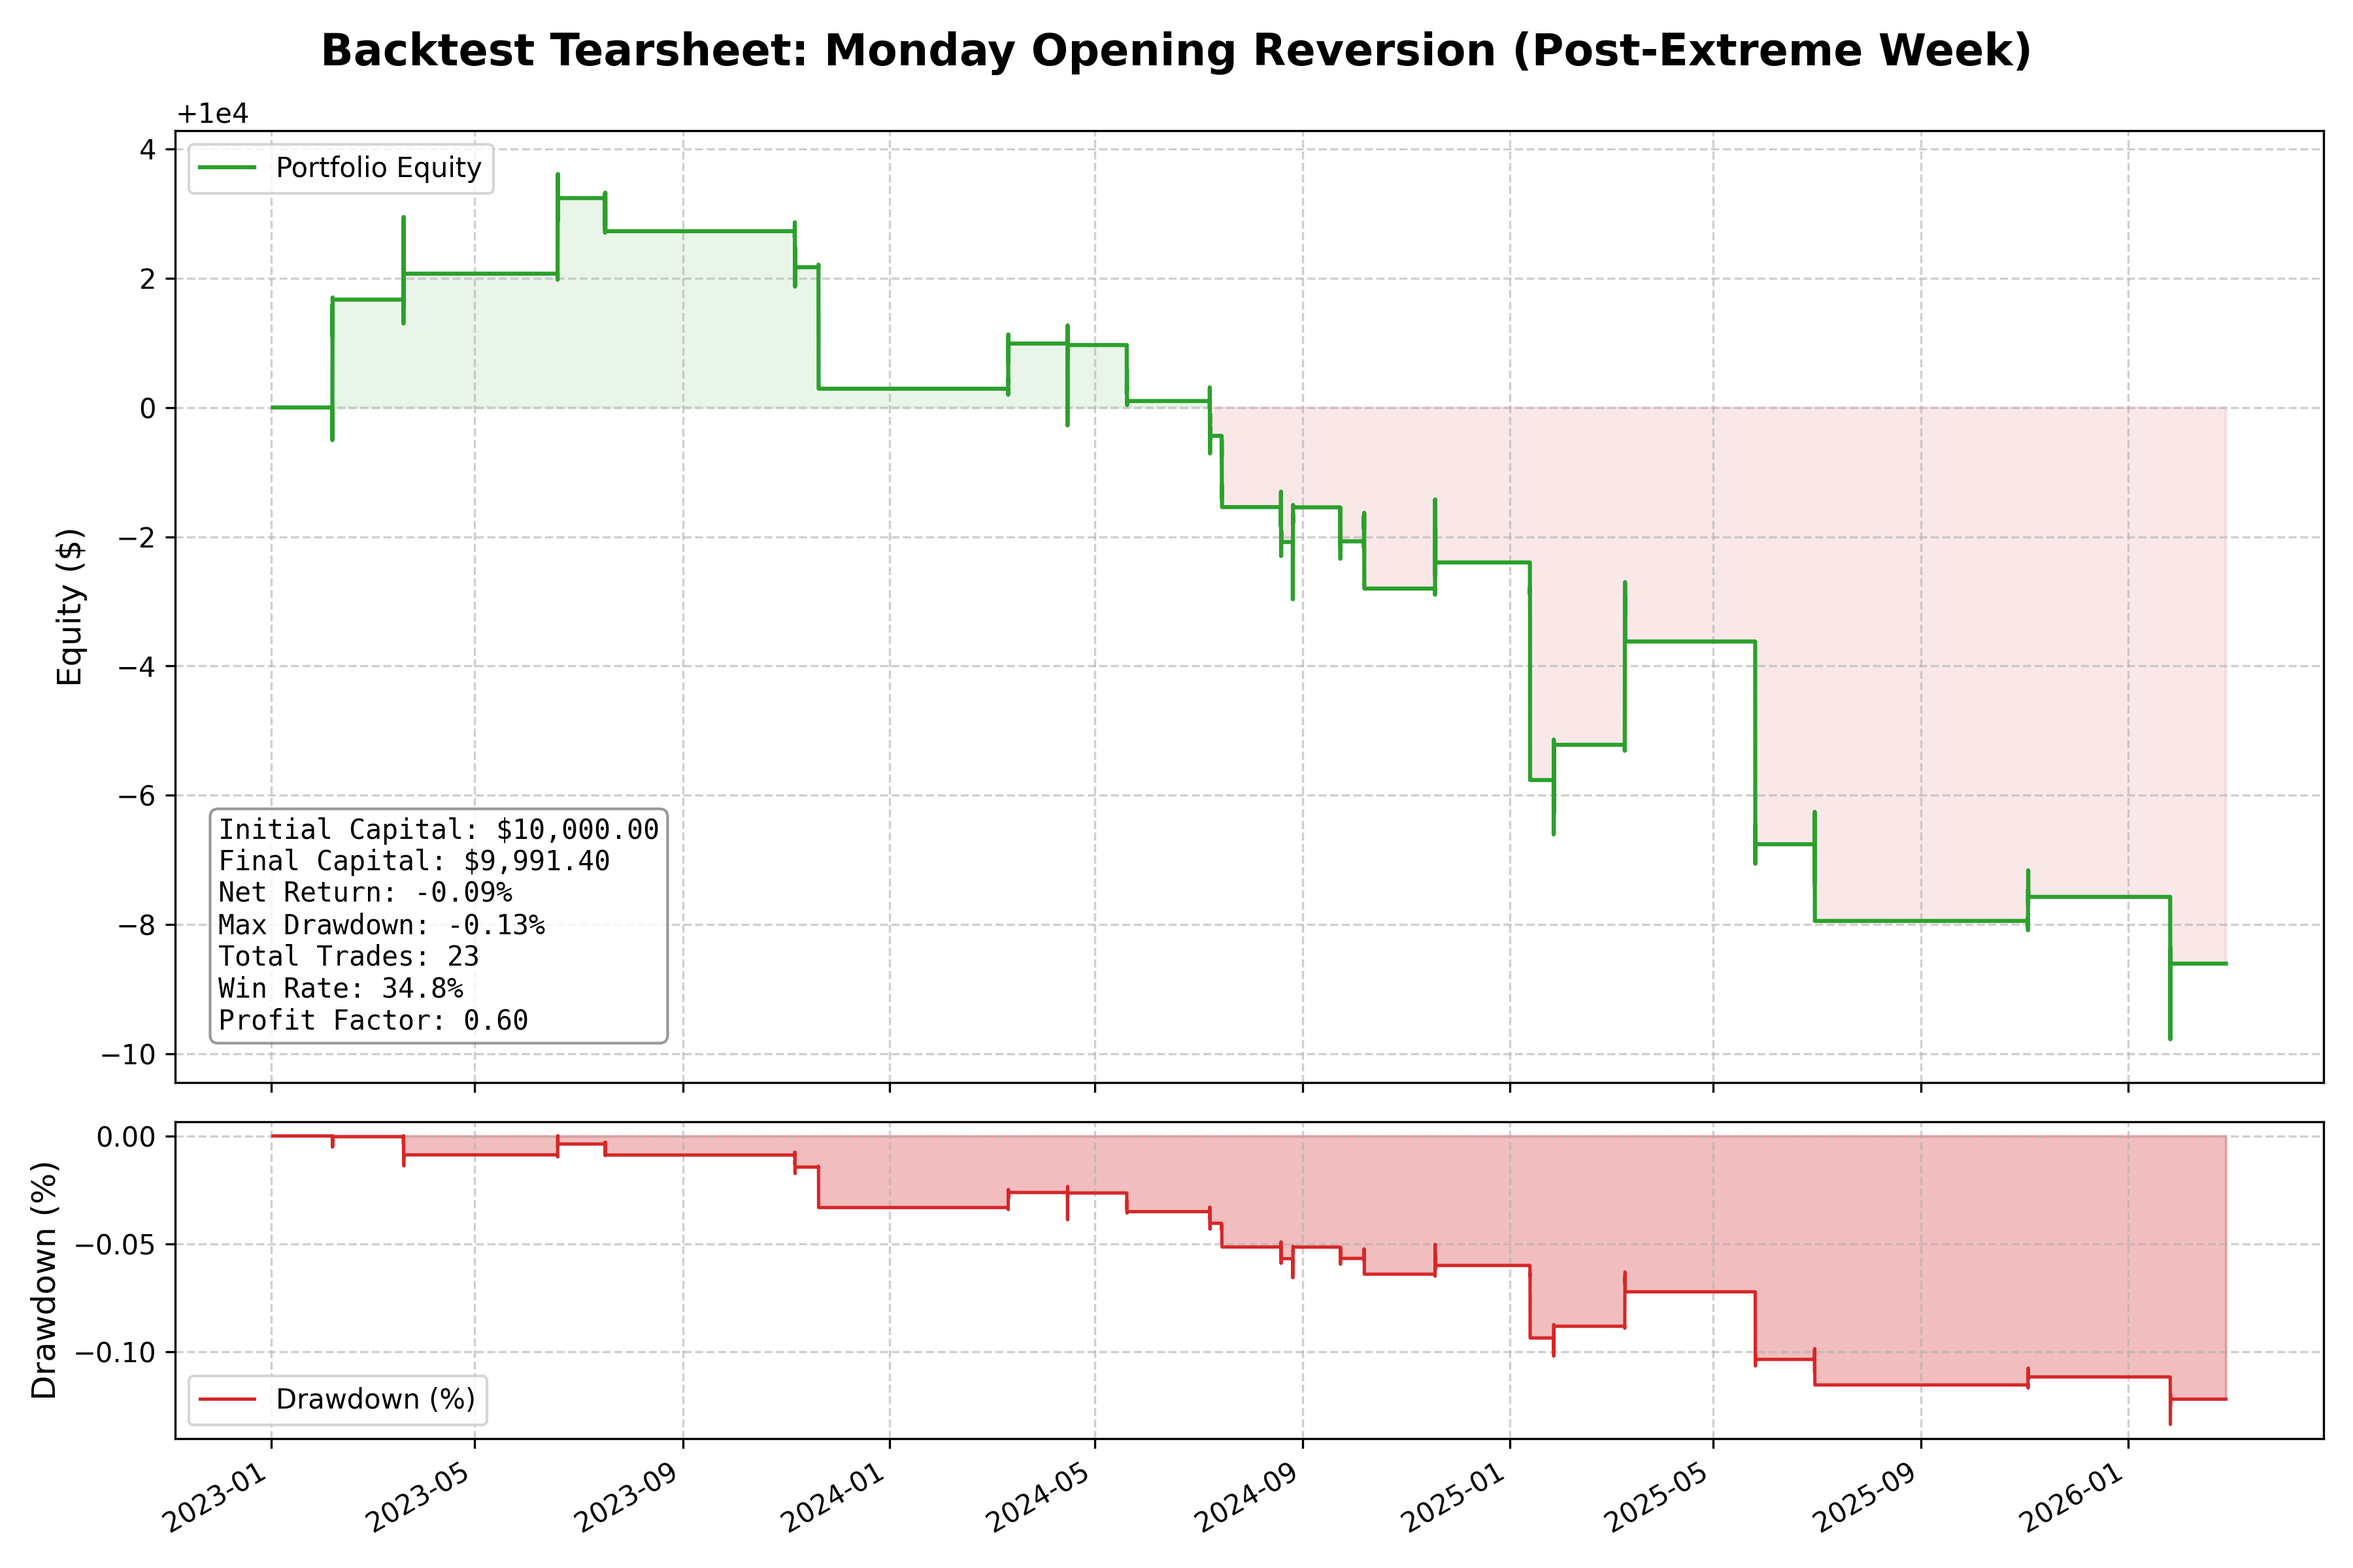
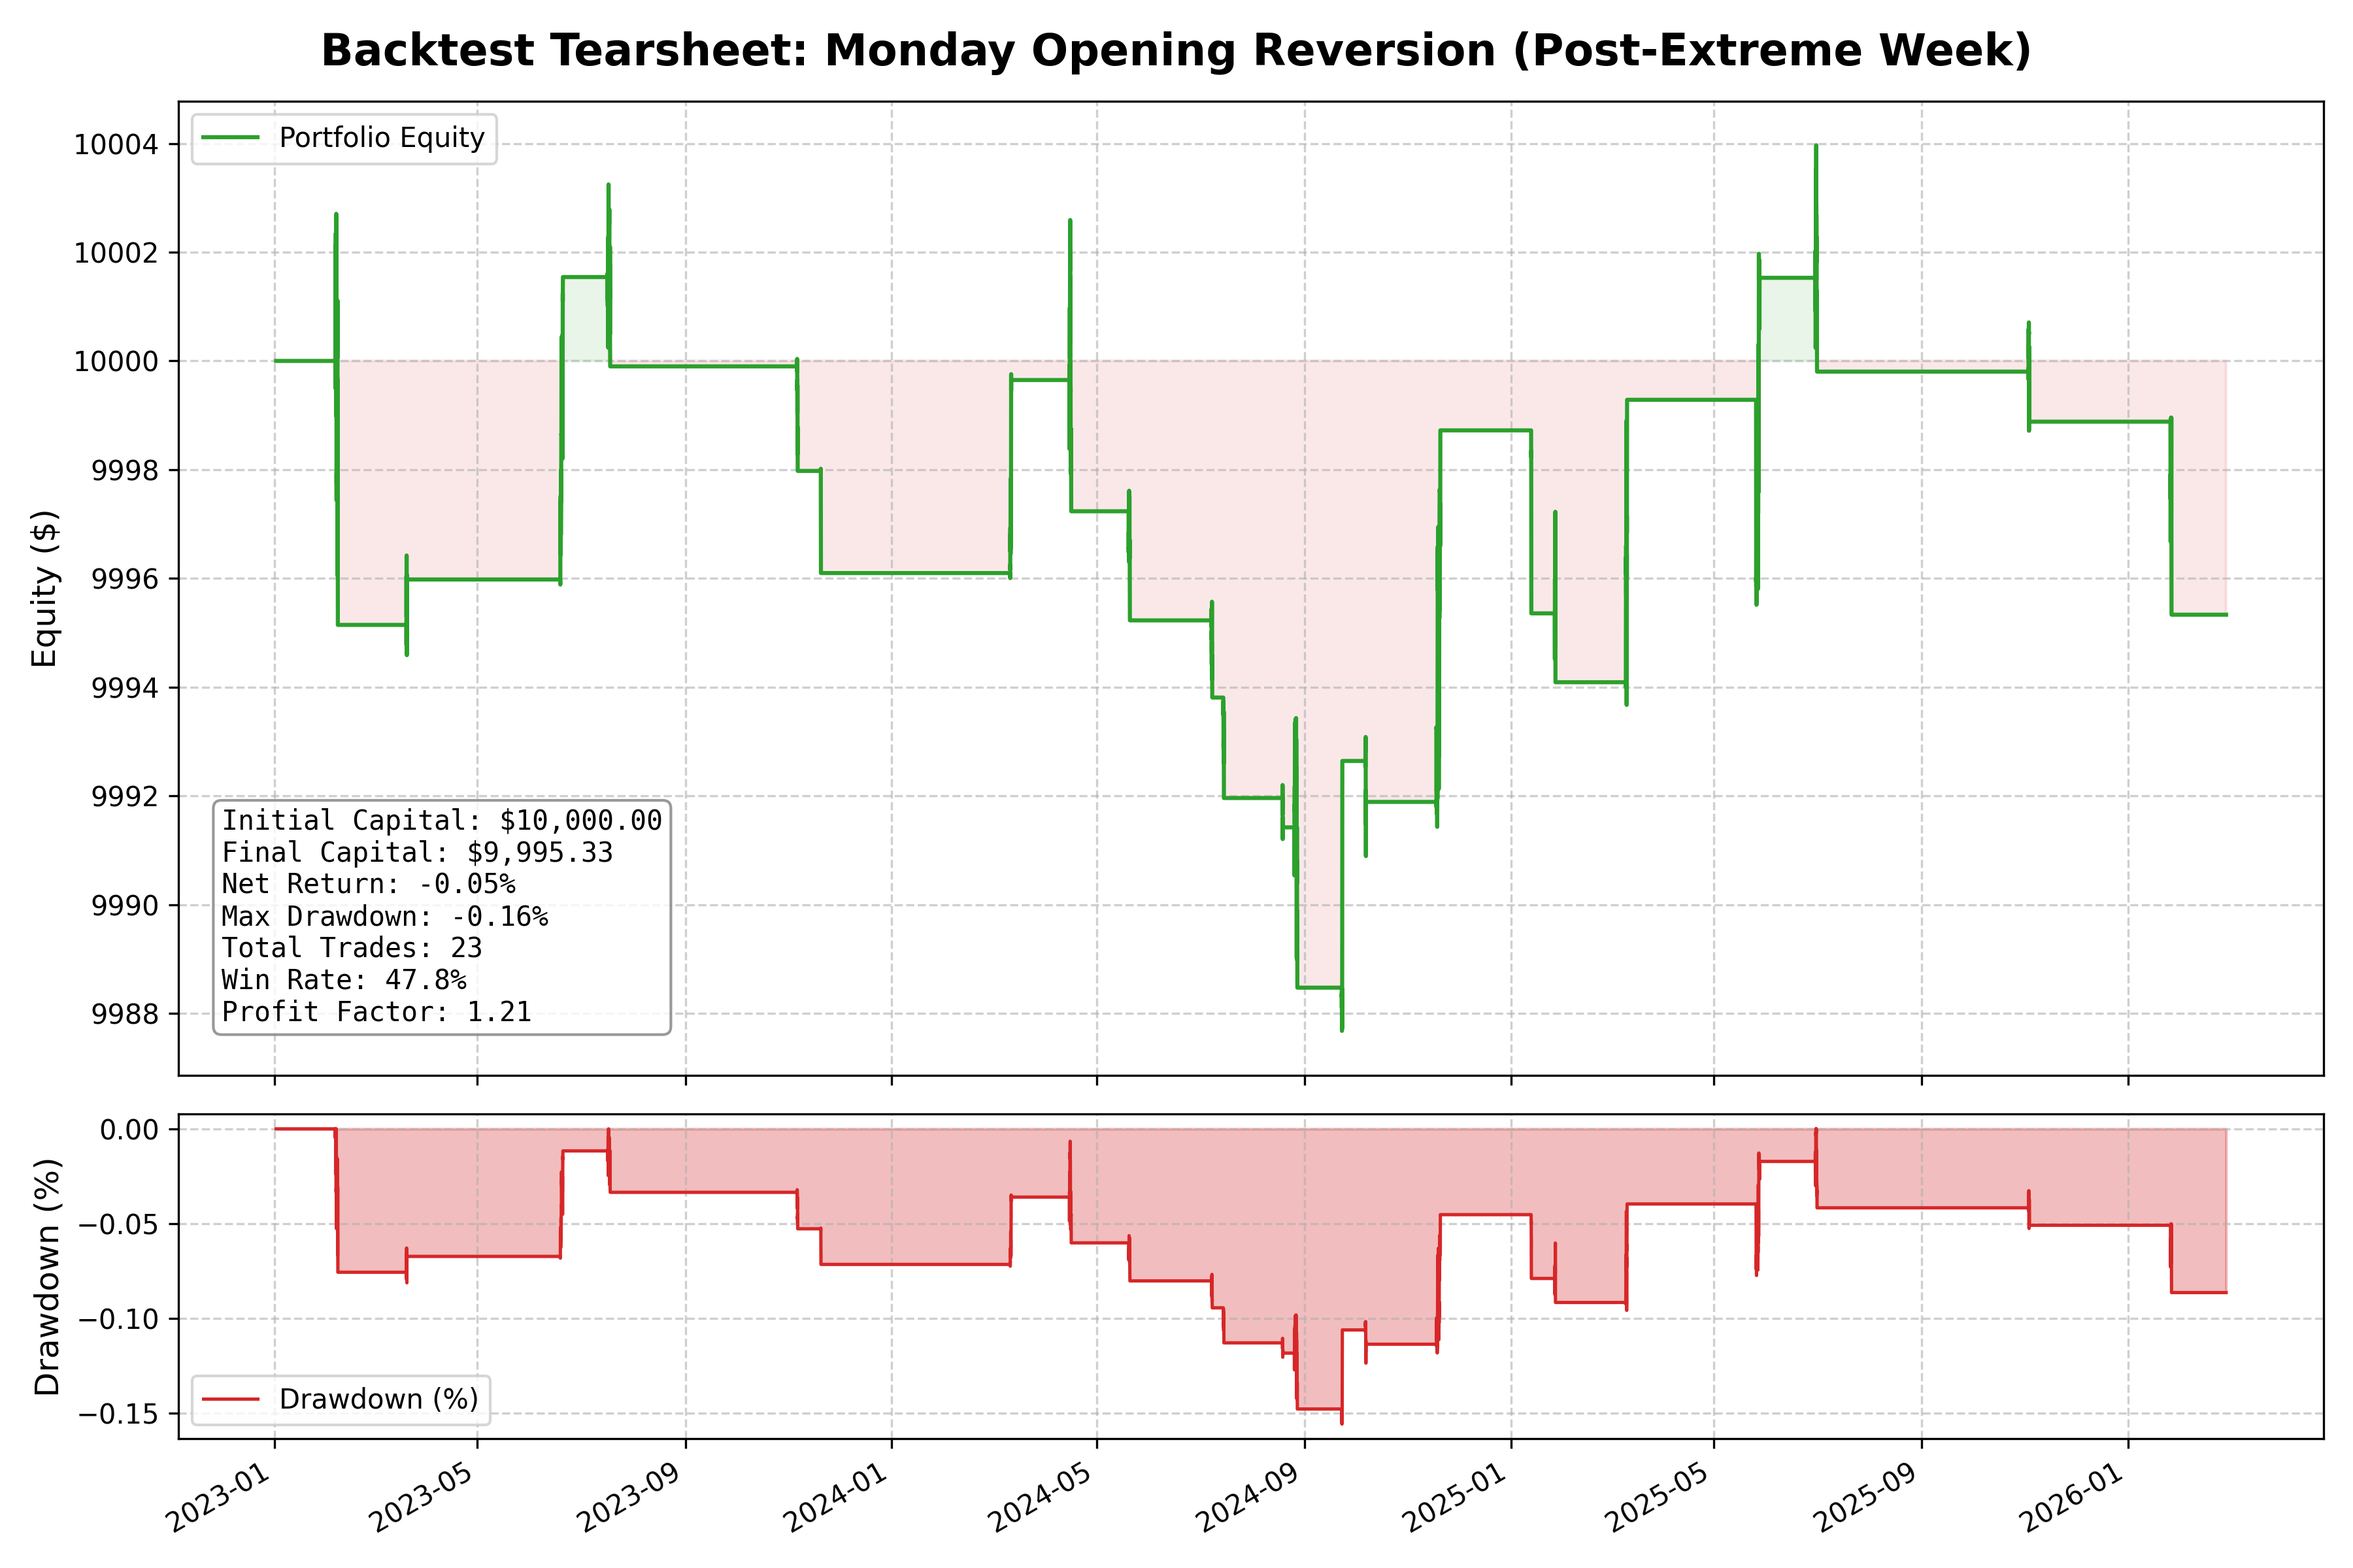
asd

diff --git a/src/alpha/base_strategy.py b/src/alpha/base_strategy.py
@@ -28,23 +28,25 @@ class BaseStrategy(ABC):
     def apply_exits(self, df: pd.DataFrame, raw_signals: pd.Series) -> pd.DataFrame:
         import numpy as np
         
+        # 1. Calculate Volatility (14-period ATR)
         tr1 = df['high'] - df['low']
         tr2 = (df['high'] - df['close'].shift(1)).abs()
         tr3 = (df['low'] - df['close'].shift(1)).abs()
         true_range = pd.concat([tr1, tr2, tr3], axis=1).max(axis=1)
         atr = true_range.rolling(14).mean()
 
-        max_hold_bars = self.execution.get('max_hold_bars', 5)
+        # 2. Extract Config parameters
         atr_multiplier = self.execution.get('atr_sl_multiplier', 1.5)
         use_time_filter = self.execution.get('use_time_filter', False)
 
+        # 3. Timezone handling for the Time Filter
         import pytz
         if df.index.tz is None:
             kyiv_time = df.index.tz_localize('UTC').tz_convert('Europe/Kyiv')
         else:
             kyiv_time = df.index.tz_convert('Europe/Kyiv')
 
-        # === THE FIX: Extract everything to lightning-fast NumPy Arrays ===
+        # 4. Extract to NumPy Arrays for Maximum Speed
         signals_arr = raw_signals.values
         closes_arr = df['close'].values
         highs_arr = df['high'].values
@@ -54,7 +56,8 @@ class BaseStrategy(ABC):
         hours_arr = kyiv_time.hour.values
         
         n = len(df)
-        # Pre-allocate result lists for maximum speed
+        
+        # Pre-allocate result lists
         target_positions = [0.0] * n
         sl_prices = [np.nan] * n
         tp_prices = [np.nan] * n
@@ -62,9 +65,8 @@ class BaseStrategy(ABC):
         current_position = 0.0
         sl_price = 0.0
         tp_price = 0.0
-        bars_held = 0
 
-        # Now we loop over raw arrays, which takes milliseconds instead of minutes
+        # 5. Fast Execution Loop
         for i in range(n):
             signal = signals_arr[i]
             current_close = closes_arr[i]
@@ -74,13 +76,9 @@ class BaseStrategy(ABC):
             current_day = days_arr[i]
             kyiv_hour = hours_arr[i]
 
-            # --- EXIT LOGIC ---
+            # --- STRICT EXIT LOGIC (SL OR TP ONLY) ---
             if current_position != 0:
-                bars_held += 1
-                
-                if bars_held >= max_hold_bars:
-                    current_position = 0.0
-                elif current_position == 1.0:
+                if current_position == 1.0:
                     if current_low <= sl_price or current_high >= tp_price:
                         current_position = 0.0
                 elif current_position == -1.0:
@@ -90,12 +88,14 @@ class BaseStrategy(ABC):
             # --- ENTRY LOGIC ---
             if current_position == 0 and signal != 0 and not np.isnan(current_atr):
                 
+                # Apply Time Filter if enabled (London Open to 18:00 UA)
                 if use_time_filter and not (10 <= kyiv_hour < 18):
-                    pass # Do nothing, skip the trade
+                    pass # Skip the trade
                 else:
                     current_position = float(signal)
-                    bars_held = 0
                     sl_dist = current_atr * atr_multiplier
+                    
+                    # STRICT RR LOGIC: 3RR strictly on Thursdays (day 3), exactly 2RR all other days
                     rr_ratio = 3.0 if current_day == 3 else 2.0
                     tp_dist = sl_dist * rr_ratio
                     
@@ -111,9 +111,10 @@ class BaseStrategy(ABC):
             sl_prices[i] = sl_price if current_position != 0 else np.nan
             tp_prices[i] = tp_price if current_position != 0 else np.nan
 
-        # Construct final dataframe
+        # 6. Construct Final DataFrame
         result = pd.DataFrame(index=df.index)
         result['target_position'] = target_positions
         result['sl_price'] = sl_prices
         result['tp_price'] = tp_prices
+        
         return result
